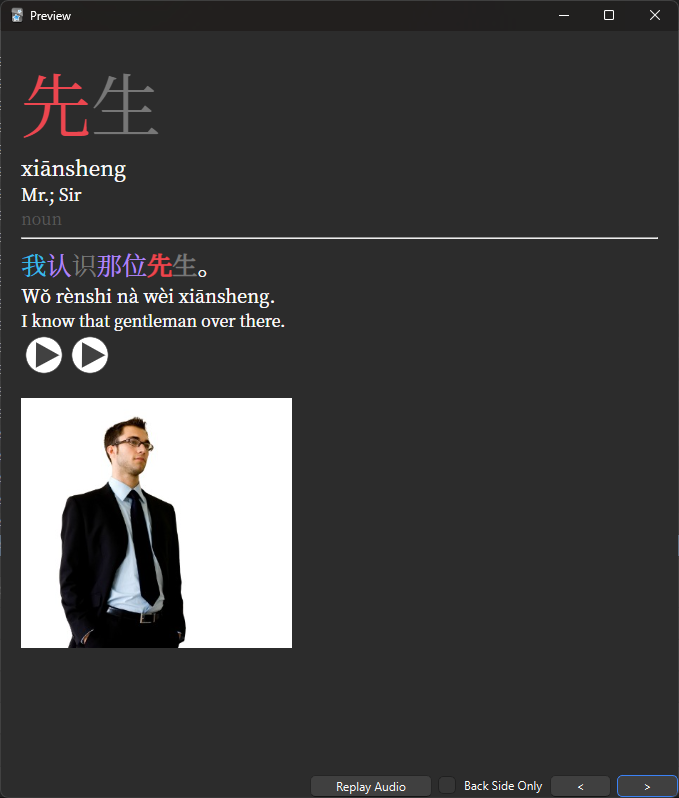
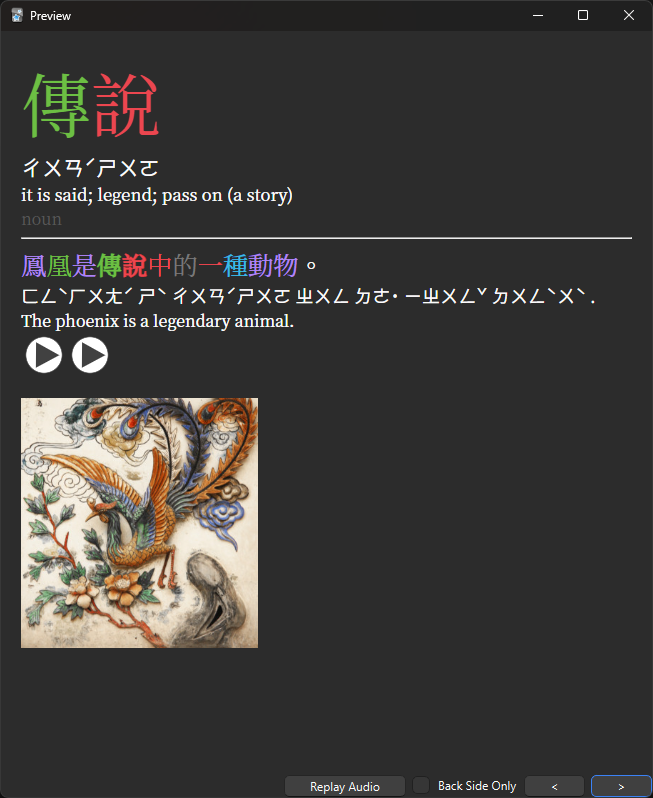
Add Traditional HSK Deck

diff --git a/README.md b/README.md
@@ -1,246 +1,20 @@
 # ZH-study
 
-- [HSK Deck Template](#hsk-deck-template)
+- [Traditional HSK Deck](#traditional-hsk-deck)
 
-## HSK Deck Template
+## Traditional HSK Deck
 
-Modified card template for the [HSK Deck](https://www.reddit.com/r/ChineseLanguage/comments/7mjmjc/best_anki_deck_for_hsk_ive_come_across/).
+Traditional version for the [HSK Deck](https://www.reddit.com/r/ChineseLanguage/comments/7mjmjc/best_anki_deck_for_hsk_ive_come_across/).
+
+Changes:
+
+- Displays Traditional instead of Simplified
+- Added tone coloring
+- Uses zhuyin instead of pinyin (Generated using [Chinese Support 3](https://ankiweb.net/shared/info/1752008591))
+- Slightly modified layout
+
+[Download Link](https://drive.google.com/file/d/1SpR2q5mZ1KW5Oo-kTHgVZ4g1vfL9xVbM/view?usp=sharing)
 
 <p align="center">
     <img src="./images/hsk.png" width="70%" />
 </p>
-
-Just copy and paste the following templates into Anki.
-
-- Front Template
-
-  ```html
-  <div class="hanzi">{{Simplified}}</div>
-  <span>{{Homograph}}</span>
-  <div class="pinyin"><br /></div>
-  <div class="english"><br /></div>
-  <div class="description"><br /></div>
-  <hr />
-  <div class="sentence">{{SentenceSimplified}}</div>
-  ```
-
-- Back Template
-
-  ```html
-  <div class="hanzi">{{Simplified}}</div>
-  <span>{{Homograph}}</span>
-  <div class="pinyin">{{Pinyin.1}}</div>
-  <div class="english">{{Meaning}}</div>
-  <div class="description">{{Part of speech}}</div>
-  <hr />
-  <div class="sentence">{{SentenceSimplified}}</div>
-  <div class="pinyinSen">{{SentencePinyin.1}}</div>
-  <div class="meaningSent">{{SentenceMeaning}}</div>
-  <div class="audio">{{Audio}} {{SentenceAudio}}</div>
-  <br />
-  {{SentenceImage}}
-
-  <!-- Pitch colorizer -->
-  <script>
-    (() => {
-      // Modified from https://www.reddit.com/r/Anki/comments/i6rmp6/chinese_flashcards_automatic_coloring_according/ by /u/Destroyer862K2
-      decode_pinyin = function (pinyin) {
-        const core = ["a", "e", "i", "o", "u", "ü"];
-        let arr = pinyin.replace(/<b>|<\/b>|<div>|<\/div>/g, "").split("");
-
-        is_core = function (c, c_previous_two = "", c_next = "") {
-          //pre conditions
-          if (
-            c == "r" &&
-            (c_next == " " || c_next == "") &&
-            c_previous_two != " " &&
-            c_previous_two != ""
-          ) {
-            return [true, true];
-          }
-          //pre conditions
-
-          c = c
-            .normalize("NFD")
-            .replace(/[\u0300-\u036f]/g, "")
-            .toLowerCase();
-          for (let i = 0; i < core.length; i++) {
-            if (c === core[i]) {
-              return [true, false];
-            }
-          }
-          return [false, false];
-        };
-
-        get_tone = function (str) {
-          let pure = str.replace(/a|e|i|o|u|ü|r/g, "");
-          if (pure == "") {
-            return 5;
-          } else if (["ā", "ē", "ī", "ō", "ū", "ǖ"].includes(pure)) {
-            return 1;
-          } else if (["á", "é", "í", "ó", "ú", "ǘ"].includes(pure)) {
-            return 2;
-          } else if (["ǎ", "ě", "ǐ", "ǒ", "ǔ", "ǚ"].includes(pure)) {
-            return 3;
-          } else if (["à", "è", "ì", "ò", "ù", "ǜ"].includes(pure)) {
-            return 4;
-          }
-
-          return pure;
-        };
-
-        let tones_arr = [];
-        let buff = [];
-
-        flush = function () {
-          if (buff.length > 0) {
-            tones_arr.push(get_tone(buff.join("")));
-            buff = [];
-          }
-        };
-        for (let i = 0; i < arr.length; i++) {
-          let res = is_core(arr[i], arr[i - 2], arr[i + 1]);
-          if (res[1]) {
-            flush();
-          }
-          if (res[0]) {
-            buff.push(arr[i]);
-          } else {
-            flush();
-          }
-        }
-        if (buff.length > 0) {
-          tones_arr.push(get_tone(buff.join("")));
-          buff = [];
-        }
-        return tones_arr;
-      };
-
-      recolor_pinyin = function (pinyin_element, hanzi_element) {
-        let hanzi_sentence = hanzi_element.innerHTML;
-        let decoded = decode_pinyin(pinyin_element.innerHTML);
-        let hanzi_sentence_strip = hanzi_sentence.replace(
-          / |<b>|<\/b>|\.|。|\?|？|!|！|<div>|<\/div>|，|，/g,
-          ""
-        );
-        if (hanzi_sentence_strip.length == decoded.length) {
-          let start = 0;
-          for (i in hanzi_sentence_strip) {
-            let index = hanzi_sentence.indexOf(hanzi_sentence_strip[i], start);
-            let insertion =
-              '<span class="tone-' +
-              decoded[i] +
-              '">' +
-              hanzi_sentence_strip[i] +
-              "</span>";
-            hanzi_sentence =
-              hanzi_sentence.substring(0, index) +
-              insertion +
-              hanzi_sentence.substring(index + 1);
-            start = index + insertion.length;
-          }
-          hanzi_element.innerHTML = hanzi_sentence;
-        }
-      };
-
-      let pinyin_element = document.querySelector(".pinyin");
-      let hanzi_elements = [...document.querySelectorAll(".hanzi")];
-      let pinyin_sentence_element = document.querySelector(".pinyinSen");
-      let hanzi_sentence_elements = [...document.querySelectorAll(".sentence")];
-
-      if (pinyin_element != null && hanzi_elements.length > 0) {
-        for (const hanzi_element of hanzi_elements) {
-          recolor_pinyin(pinyin_element, hanzi_element);
-        }
-      }
-      if (
-        pinyin_sentence_element != null &&
-        hanzi_sentence_elements.length > 0
-      ) {
-        for (const hanzi_sentence_element of hanzi_sentence_elements) {
-          recolor_pinyin(pinyin_sentence_element, hanzi_sentence_element);
-        }
-      }
-    })();
-  </script>
-  ```
-
-- Styling
-
-  ```css
-  @import url("https://fonts.googleapis.com/css2?family=Noto+Sans+SC:wght@100..900&family=Noto+Serif+SC&display=swap");
-
-  :root {
-    --font-sans: "Noto Sans SC", sans;
-    --font-serif: "Noto Serif SC", serif;
-    --color-faint: #575757;
-    --color-tone-1: #ec464f;
-    --color-tone-2: #6cbf43;
-    --color-tone-3: #39bae6;
-    --color-tone-4: #af85f4;
-    --color-tone-5: #777777;
-    font-size: 14px;
-  }
-
-  .card {
-    font-family: var(--font-serif);
-    text-align: left;
-    max-width: 800px;
-    margin: 0 auto;
-    padding: 20px;
-  }
-
-  .hanzi {
-    font-size: 5rem;
-  }
-
-  .sentence {
-    font-size: 1.8rem;
-  }
-
-  .pinyin {
-    font-size: 1.5rem;
-  }
-
-  .pinyinSen {
-    font-size: 1.3rem;
-  }
-
-  .english {
-    font-size: 1.2rem;
-  }
-
-  .meaningSent {
-    text-align: left;
-    font-size: 1.15rem;
-  }
-
-  .description {
-    font-size: 1.15rem;
-    color: var(--color-faint);
-  }
-
-  .audio {
-    display: flex;
-  }
-
-  img {
-    max-height: 250px;
-  }
-
-  .tone-1 {
-    color: var(--color-tone-1);
-  }
-  .tone-2 {
-    color: var(--color-tone-2);
-  }
-  .tone-3 {
-    color: var(--color-tone-3);
-  }
-  .tone-4 {
-    color: var(--color-tone-4);
-  }
-  .tone-5 {
-    color: var(--color-tone-5);
-  }
-  ```
